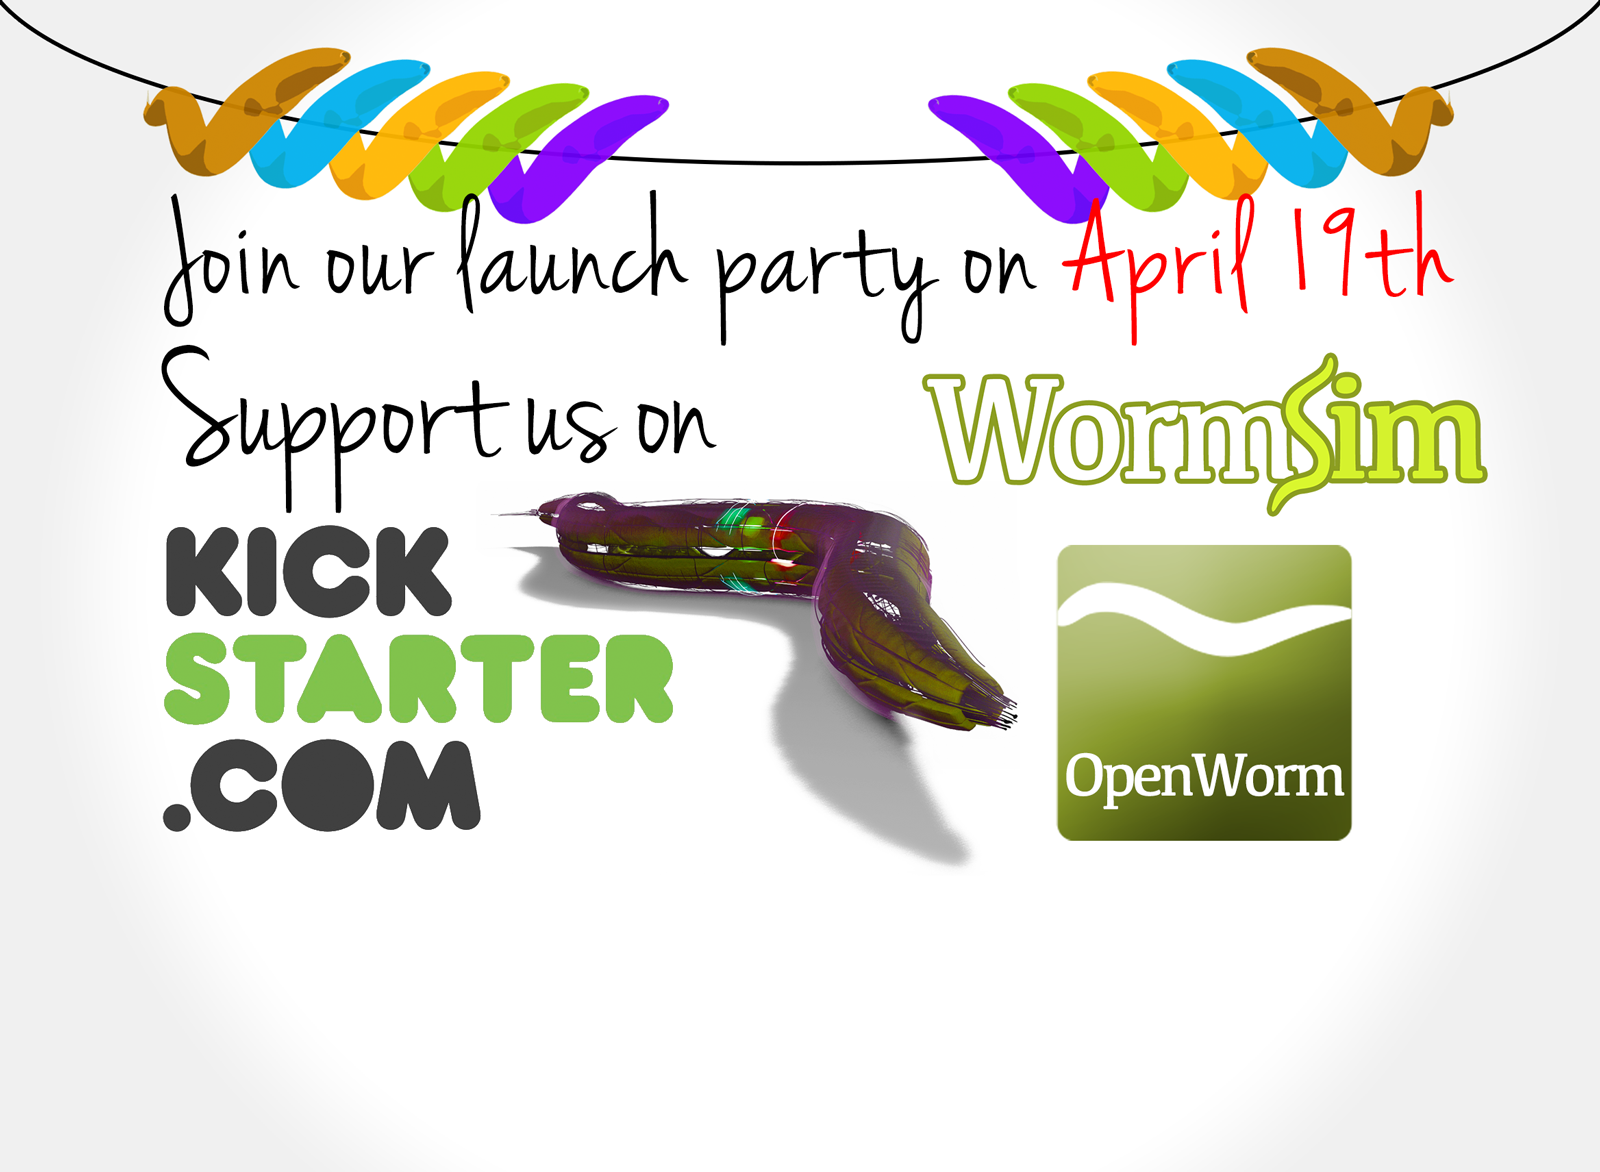
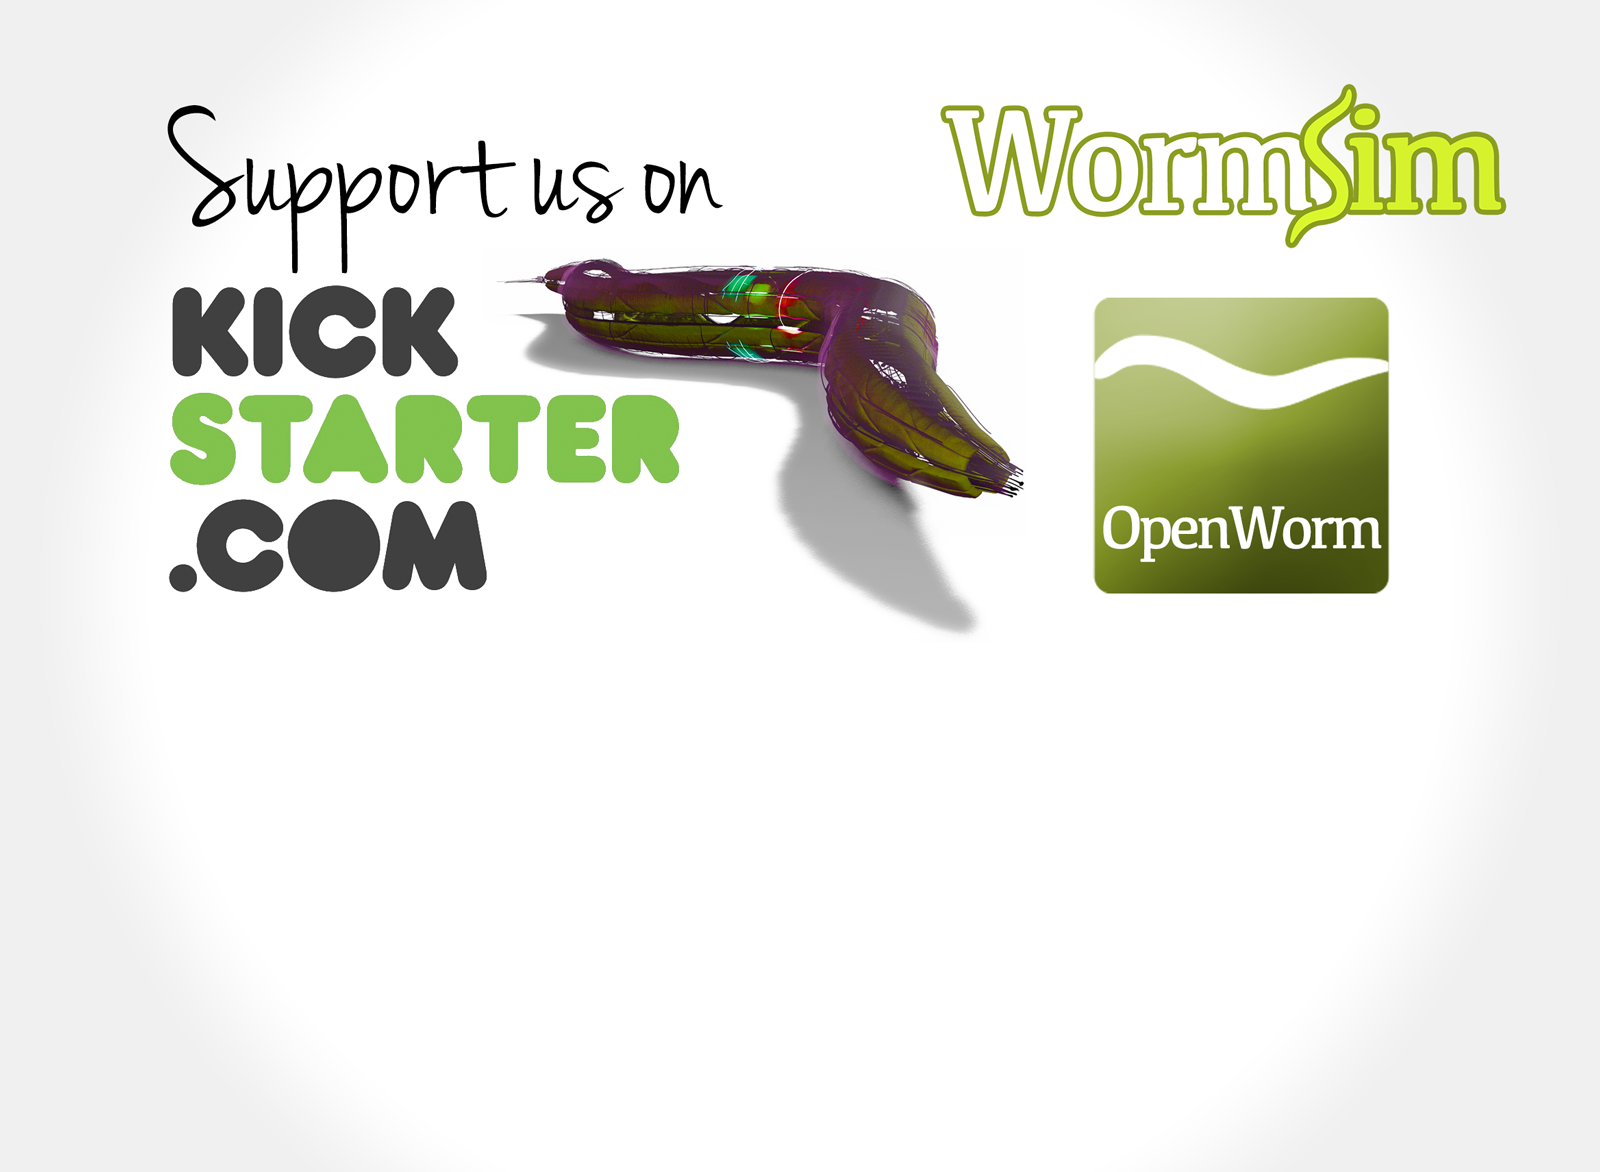
Kickstarter going LIVE!

diff --git a/war/index.html b/war/index.html
@@ -73,7 +73,7 @@
 								<a href="./media.html">Media</a>
 							</li>
 							<li>
-								<a class="donatecolor" href="http://bit.ly/1mVGD8b">Kickstarter</a>
+								<a class="donatecolor" href="http://bit.ly/KickstartWorm">Kickstarter</a>
 							</li>
 						</ul>
 						<ul class="nav pull-right">
@@ -429,9 +429,10 @@
 			
 			<div style="display:none">
 				<div id="inline_content" style="padding:10px;">
-					<div style="text-align:center; margin-top:460px;">
-						<!--<p class="lead" style="font-weight:100; font-size:45px;">The Kickstarter will start in <strong id="countdown"></strong></p>-->
-						<p class="lead" style="font-weight:100; font-size:40px;"><a href="http://bit.ly/1hZPJJf" target="_blank">Join the launch event</a> or <a href="http://bit.ly/1hZPJJf" target="_blank">pledge right now</a>!</p>
+					<div style="text-align:center; margin-top:350px;">
+						<!-- <p class="lead" style="font-weight:100; font-size:45px;">The Kickstarter will start in <strong id="countdown"></strong></p> -->
+						<p class="lead" style="font-weight:200; font-size:45px; line-height:60px;">The OpenWorm Kickstarter has arrived! Claim your early rewards <a href="http://bit.ly/KickstartWorm">right now</a></p>
+						<p class="lead" style="font-weight:100; font-size:40px; margin-top:50px;"><a href="http://bit.ly/1hZPJJf" target="_blank">Watch our launch event!</a></p>
 					</div>
 				</div>
 			</div>
